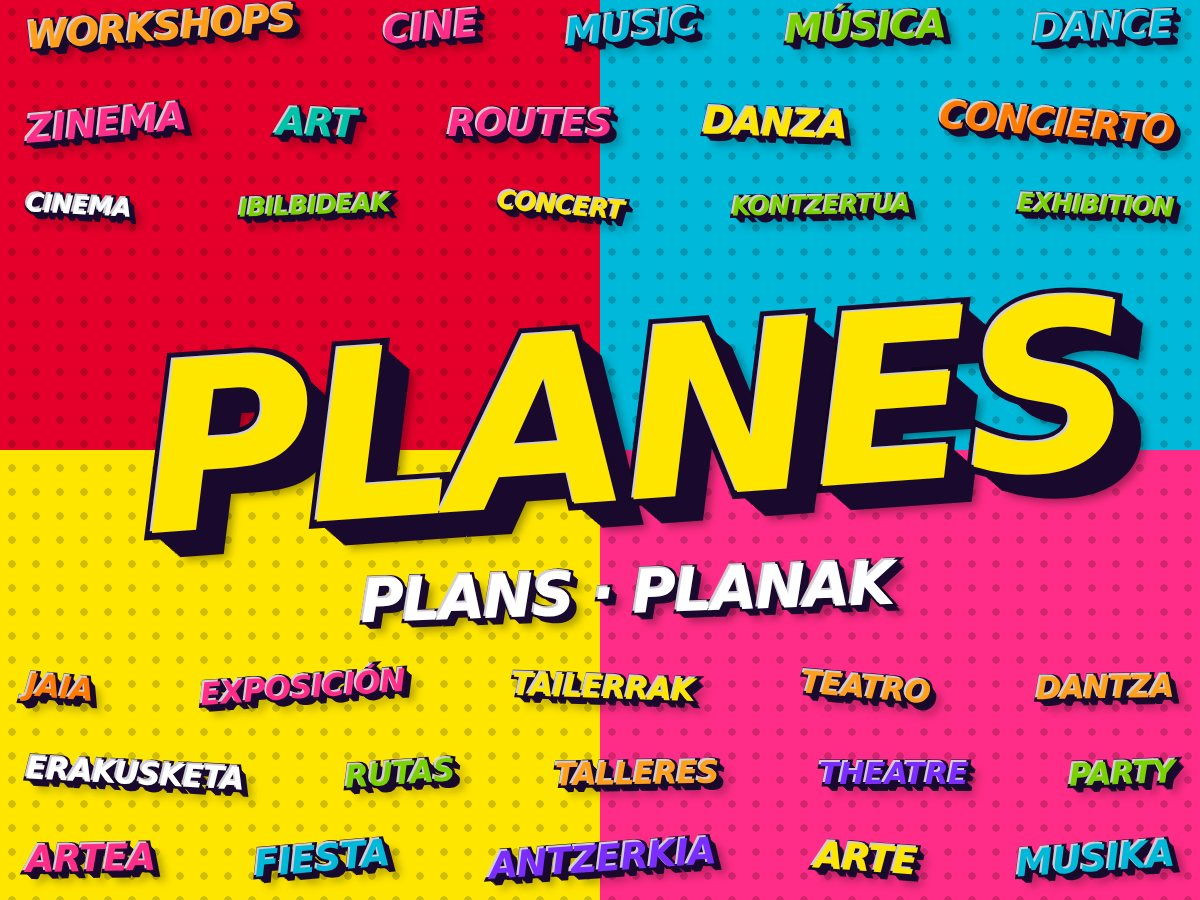
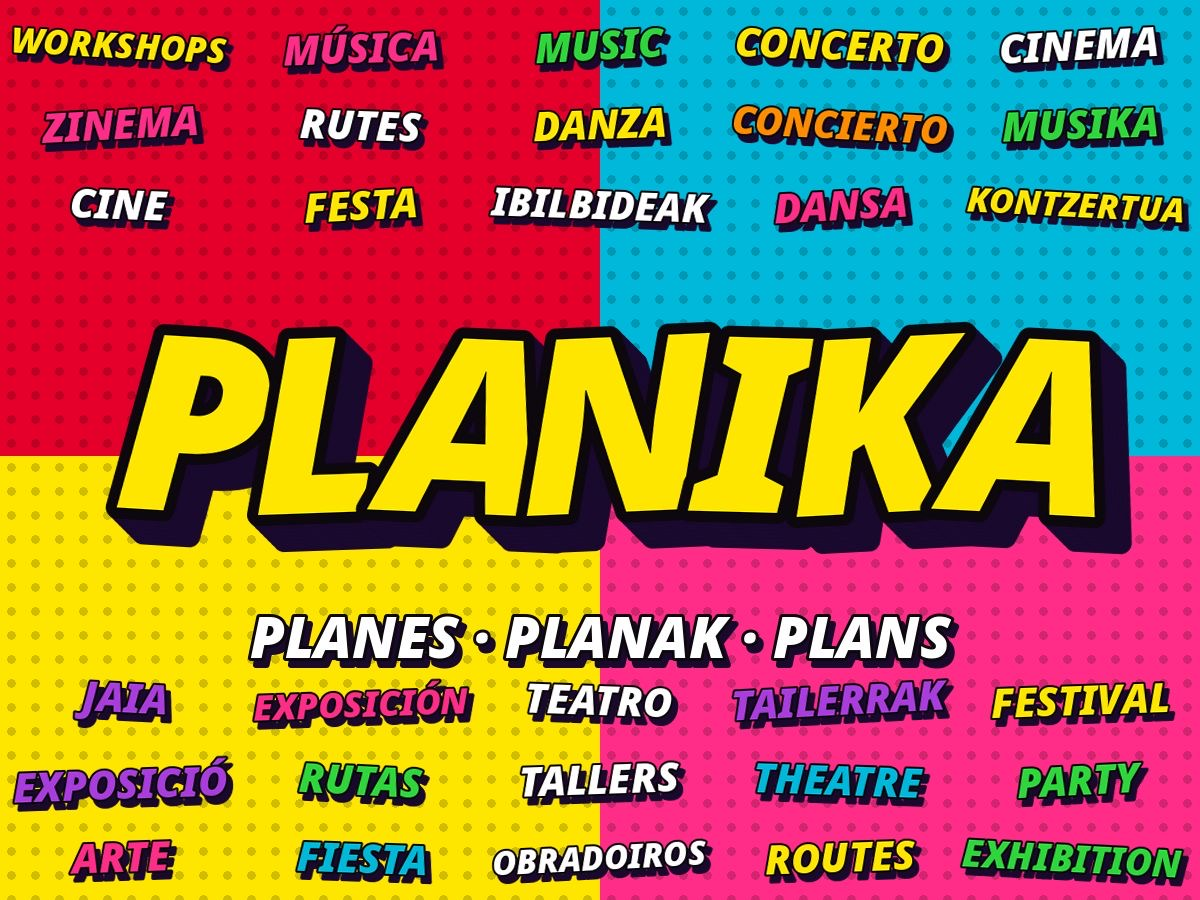
Nueva portada: PLANIKA pop art multilingüe
Claude-Session: https://claude.ai/code/session_01CmtUtZuNPWnan8sPWijtR9

diff --git a/site/index.html b/site/index.html
@@ -38,7 +38,7 @@
       <p class="lead">Conciertos, teatro, exposiciones, deporte, ferias y fiestas recogidos de agendas públicas. Filtra por provincia y tipo de plan, mira el calendario y guarda el plan en tu agenda.</p>
       <p class="meta" id="meta"></p>
     </div>
-    <img class="hero-img" src="hero.jpg" width="1200" height="900" alt="PLANES en letras pop art con relieve, rodeado de palabras de colores en español, inglés y euskera: concierto, exposición, rutas, cine, música, teatro, talleres, danza, fiesta y arte">
+    <img class="hero-img" src="hero.jpg" width="1200" height="900" alt="PLANIKA en letras pop art sobre cuatro colores, con la palabra planes en castellano, euskera y catalán, y términos como concierto, cine, teatro, jaia, exposición, rutas, talleres, danza y festival en varios idiomas">
   </div>
 </header>
 
